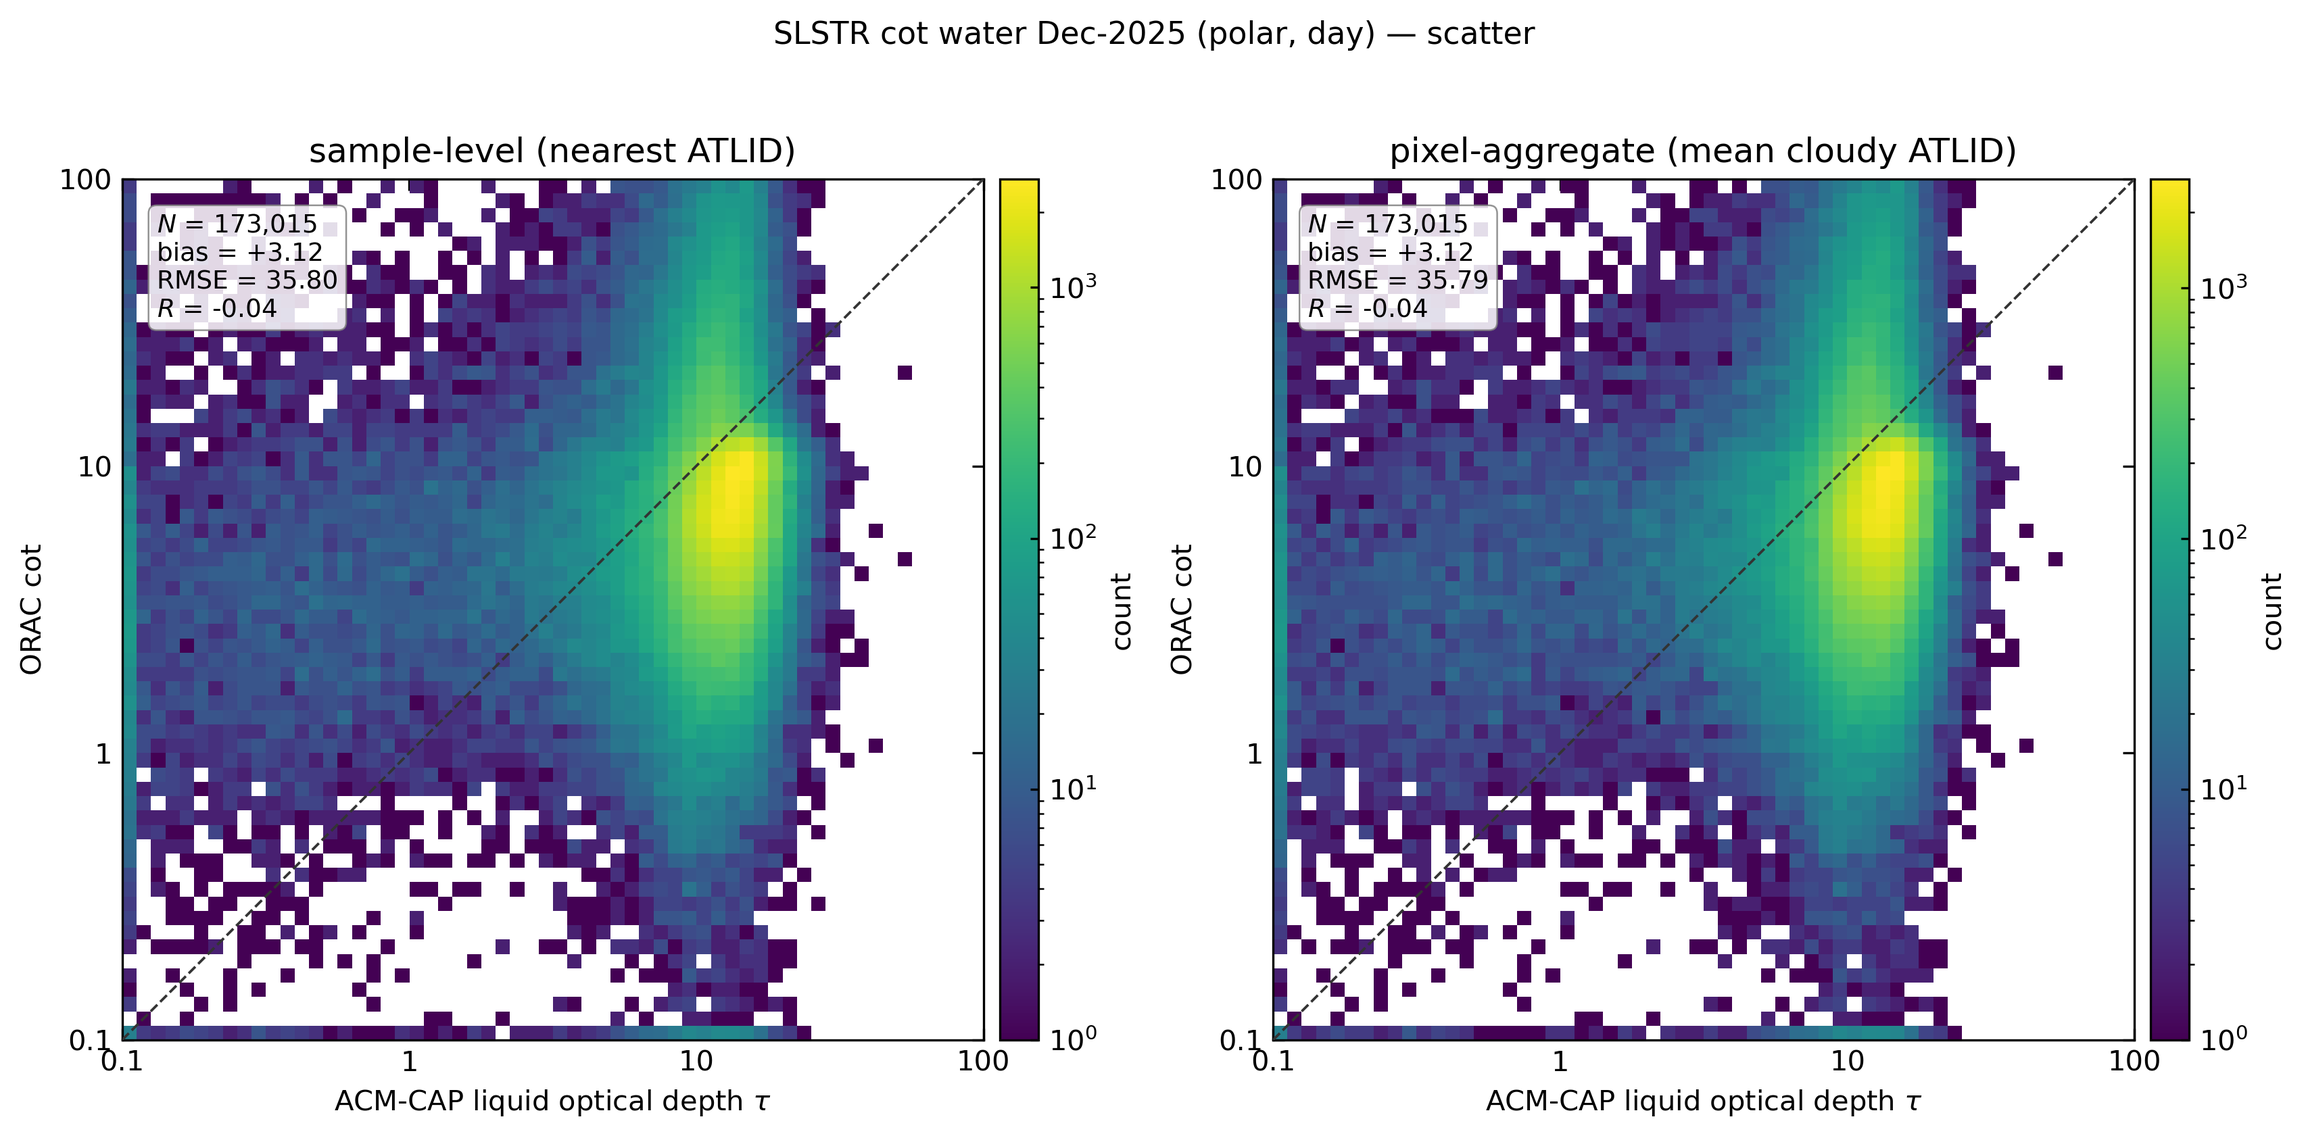
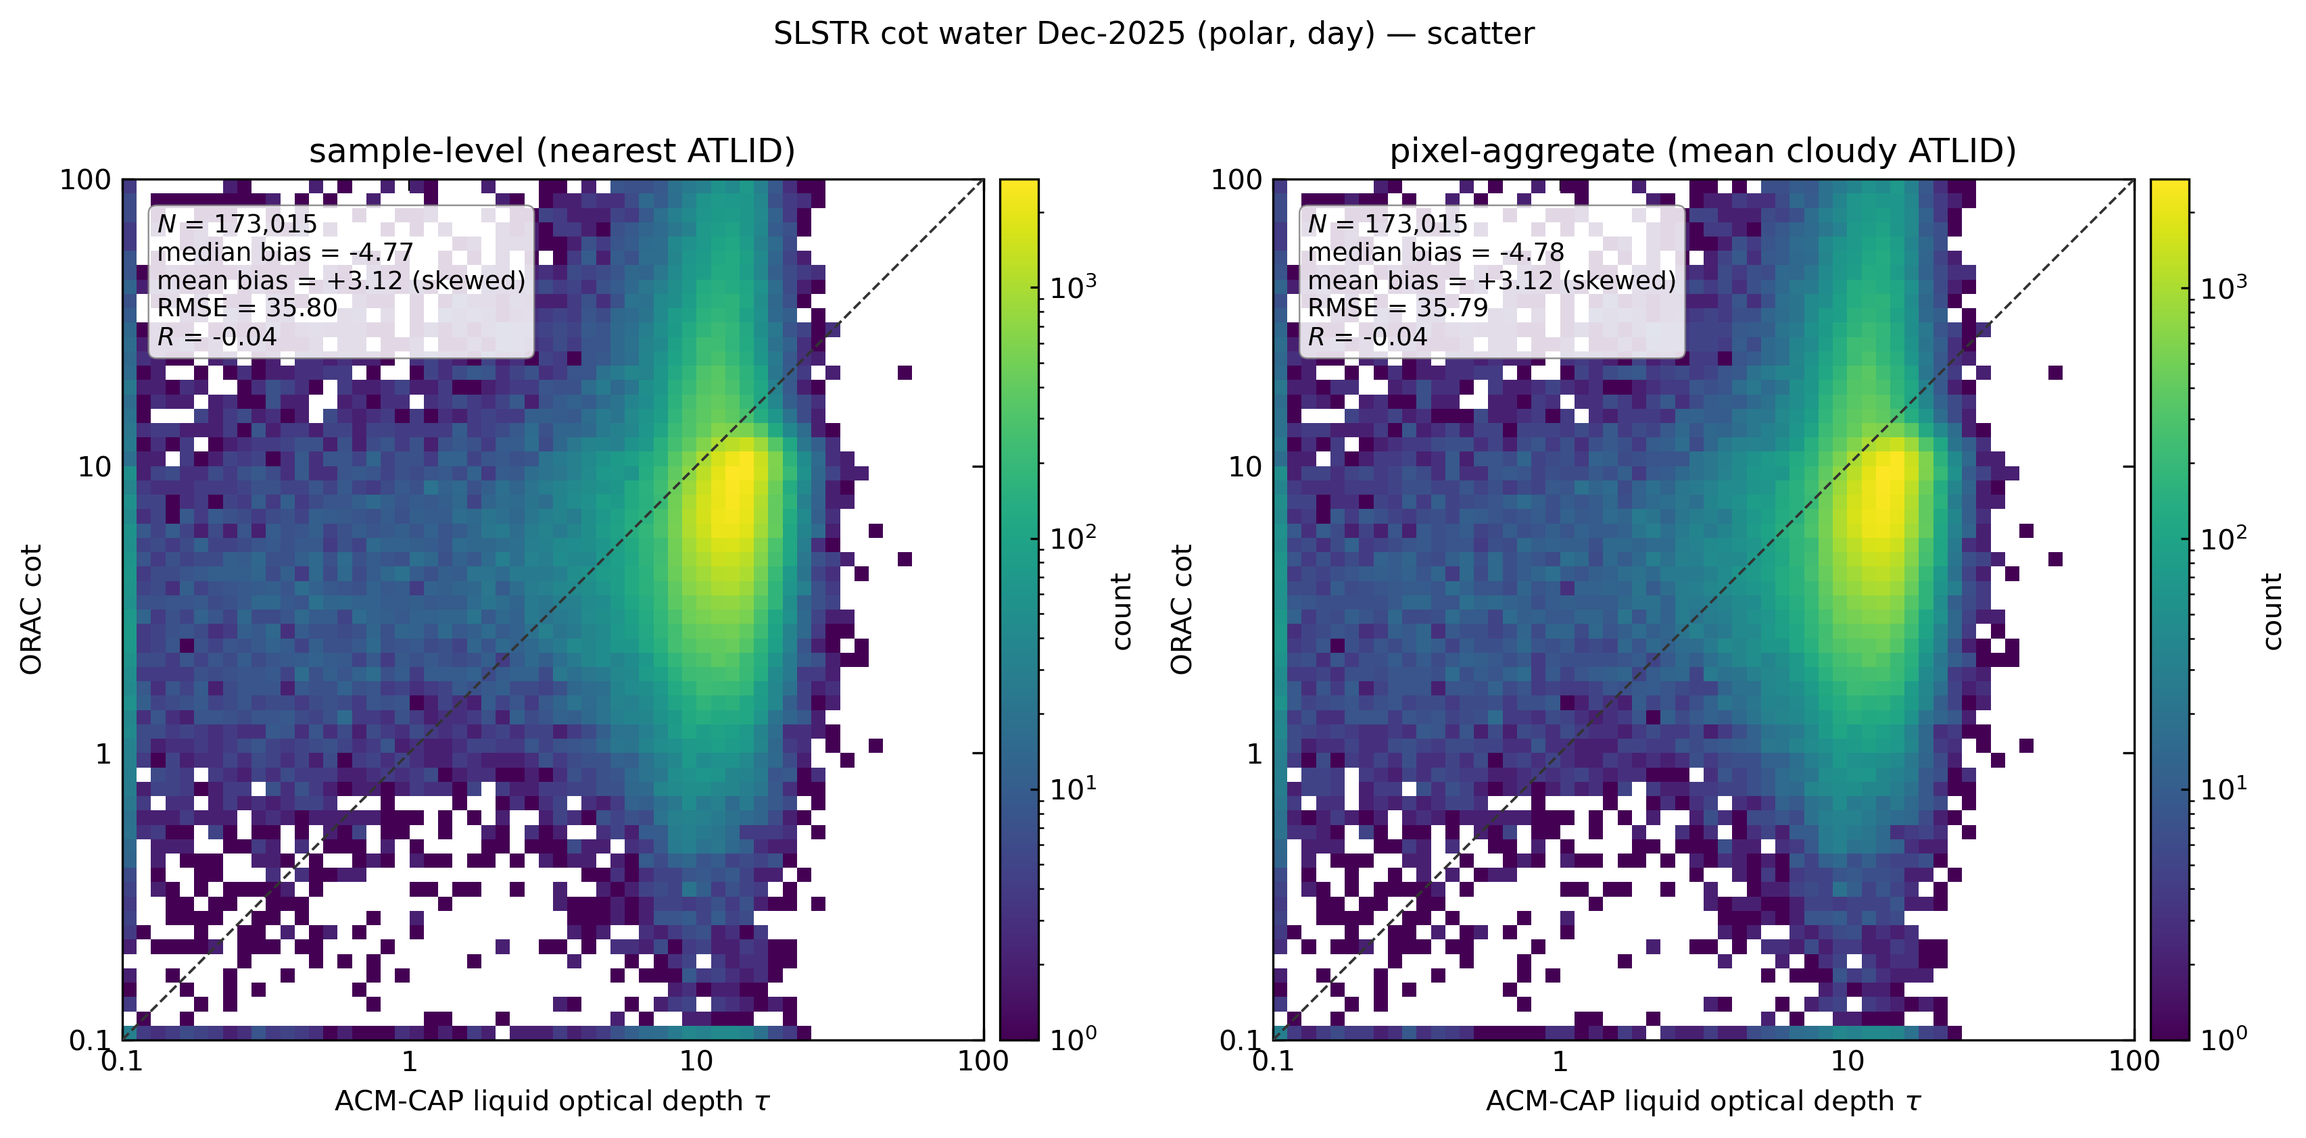
slstr(cot/cer): report MEDIAN bias as headline for heavy-tailed COT/CER
Mean bias is dominated by a small high-tau tail and misrepresents these results
(for water COT it even flips sign vs the median). Added median_bias to
continuous_stats; scatter figures now show median (headline) + mean (skewed).
Corrected headlines:
- Water COT: median -4.8 (typical UNDERestimate) vs mean +3.1 (skewed)
- Ice COT:   median +2.0 vs mean +7.2; land/ocean contrast was a mean artefact
- CER:       median +1.1 um (near-unbiased) vs mean +8.4; real issue is R~-0.1
Summary table + one-line message reframed: solar retrievals are noisy, not
grossly biased; the large positive means were skew artefacts.

Changed region(s): [[0.5594, 0.1544, 0.7458, 0.3397], [0.0622, 0.1544, 0.2486, 0.3397]]

diff --git a/validation/water_cloud_figures.py b/validation/water_cloud_figures.py
@@ -135,7 +135,8 @@ def scatter_panel(
             xv, yv = _xy_for_mode(d2, x, y, mode)
             im = _density_image(ax, xv, yv, lim=_lim_for_mode(mode))
             _attach_colorbar(fig, ax, im, label="count")
-        _stat_text(ax, n, bias, rmse, r, unit=("" if mode.startswith("cot") else r"$\mu$m"))
+        _stat_text(ax, n, bias, rmse, r, median_bias=(float((d2[y] - d2[x]).median()) if n >= 2 else None),
+                   unit=("" if mode.startswith("cot") else r"$\mu$m"))
         ax.set_title(label, pad=6)
     if suptitle:
         fig.suptitle(suptitle, fontsize=11, y=1.02)
@@ -163,7 +164,8 @@ def scatter_compare(
             xv, yv = _xy_for_mode(d2, x, y, mode)
             im = _density_image(ax, xv, yv, lim=_lim_for_mode(mode))
             _attach_colorbar(fig, ax, im, label="count")
-        _stat_text(ax, n, bias, rmse, r, unit=("" if mode.startswith("cot") else r"$\mu$m"))
+        _stat_text(ax, n, bias, rmse, r, median_bias=(float((d2[y] - d2[x]).median()) if n >= 2 else None),
+                   unit=("" if mode.startswith("cot") else r"$\mu$m"))
         ax.set_title(label, pad=6)
     if suptitle:
         fig.suptitle(suptitle, fontsize=11, y=1.02)
@@ -199,7 +201,8 @@ def scatter_compare_by_surface(
                 xv, yv = _xy_for_mode(d2, x, y, mode)
                 im = _density_image(ax, xv, yv, lim=_lim_for_mode(mode))
                 _attach_colorbar(fig, ax, im, label="count")
-            _stat_text(ax, n, bias, rmse, r, unit=("" if mode.startswith("cot") else r"$\mu$m"))
+            _stat_text(ax, n, bias, rmse, r, median_bias=(float((d2[y] - d2[x]).median()) if n >= 2 else None),
+                   unit=("" if mode.startswith("cot") else r"$\mu$m"))
             ax.set_title(f"{r_name} — {s_name}", pad=6)
     if suptitle:
         fig.suptitle(suptitle, fontsize=11, y=1.0)

diff --git a/validation/figures.py b/validation/figures.py
@@ -107,15 +107,23 @@ def _attach_colorbar(fig, ax, im, label: str = "count"):
 
 
 def _stat_text(ax, n: int, bias: float, rmse: float, r_log: float, *,
+               median_bias: float | None = None,
                loc: tuple[float, float] = (0.04, 0.96)) -> None:
     """Stats annotation in the upper-left of ``ax``.
 
     Reports ``R_log`` rather than raw ``R`` — for cot the log-space
     correlation is the meaningful metric (Karlsson 2013 / PVIR convention).
+    For heavy-tailed cot, ``median_bias`` (if given) is the headline and the
+    mean is flagged as skew-sensitive.
     """
+    if median_bias is not None:
+        bias_lines = (f"median bias = {median_bias:+.2f}\n"
+                      f"mean bias = {bias:+.2f} (skewed)\n")
+    else:
+        bias_lines = f"bias = {bias:+.2f}\n"
     txt = (
         f"$N$ = {n:,}\n"
-        f"bias = {bias:+.2f}\n"
+        f"{bias_lines}"
         f"RMSE = {rmse:.2f}\n"
         f"$R_{{\\mathrm{{log}}}}$ = {r_log:.2f}"
     )
@@ -159,7 +167,8 @@ def scatter_panel(
         if n >= 2:
             im = _density_image(ax, _logclip(d2[x]), _logclip(d2[y]))
             _attach_colorbar(fig, ax, im, label="count")
-        _stat_text(ax, n, bias, rmse, r_log)
+        _stat_text(ax, n, bias, rmse, r_log,
+                   median_bias=(float((d2[y] - d2[x]).median()) if n >= 2 else None))
         ax.set_title(label, pad=6)
     if suptitle:
         fig.suptitle(suptitle, fontsize=11, y=1.02)

diff --git a/validation/statistics.py b/validation/statistics.py
@@ -83,12 +83,16 @@ def continuous_stats(d: pd.DataFrame, x: str, y: str,
     d = d[[x, y]].dropna()
     n = len(d)
     if n < 2:
-        return dict(n=n, bias=np.nan, rmse=np.nan, mae=np.nan,
+        return dict(n=n, bias=np.nan, median_bias=np.nan, rmse=np.nan, mae=np.nan,
                     r=np.nan, r_log=np.nan, slope=np.nan, intercept=np.nan)
     xv = d[x].values
     yv = d[y].values
     diff = yv - xv
     bias = float(diff.mean())
+    # median bias is the robust headline for heavy-tailed quantities (cot/cer):
+    # the mean is dominated by a small high-value tail, so it can even flip sign
+    # relative to the typical (median) difference.
+    median_bias = float(np.median(diff))
     rmse = float(np.sqrt((diff ** 2).mean()))
     mae = float(np.abs(diff).mean())
     if d[x].std() > 0 and d[y].std() > 0:
@@ -100,8 +104,8 @@ def continuous_stats(d: pd.DataFrame, x: str, y: str,
     else:
         r = r_log = np.nan
         slope = intercept = np.nan
-    return dict(n=n, bias=bias, rmse=rmse, mae=mae, r=r, r_log=r_log,
-                slope=float(slope), intercept=float(intercept))
+    return dict(n=n, bias=bias, median_bias=median_bias, rmse=rmse, mae=mae,
+                r=r, r_log=r_log, slope=float(slope), intercept=float(intercept))
 
 
 # ---------------------------------------------------------------------------

diff --git a/validation/cth_figures.py b/validation/cth_figures.py
@@ -98,14 +98,21 @@ def _attach_colorbar(fig, ax, im, label: str = "count"):
 
 
 def _stat_text(ax, n: int, bias: float, rmse: float, r: float, *,
-               unit: str = "km",
+               unit: str = "km", median_bias: float | None = None,
                loc: tuple[float, float] = (0.04, 0.96)) -> None:
     """Stats annotation in the upper-left of ``ax``. ``unit`` is appended to
-    bias/RMSE when truthy; pass ``unit=""`` for dimensionless variables."""
+    bias/RMSE when truthy; pass ``unit=""`` for dimensionless variables. If
+    ``median_bias`` is given (heavy-tailed cot/cer), it is shown as the headline
+    with the mean flagged as skew-sensitive."""
     suffix = f" {unit}" if unit else ""
+    if median_bias is not None:
+        bias_lines = (f"median bias = {median_bias:+.2f}{suffix}\n"
+                      f"mean bias = {bias:+.2f}{suffix} (skewed)\n")
+    else:
+        bias_lines = f"bias = {bias:+.2f}{suffix}\n"
     txt = (
         f"$N$ = {n:,}\n"
-        f"bias = {bias:+.2f}{suffix}\n"
+        f"{bias_lines}"
         f"RMSE = {rmse:.2f}{suffix}\n"
         f"$R$ = {r:.2f}"
     )

diff --git a/docs/reports/slstr_cot_water_2025-12.md b/docs/reports/slstr_cot_water_2025-12.md
@@ -31,37 +31,40 @@ Coverage: **N = 173 015 SLSTR pixels** (pixel view; sample-level identical to 3 
 
 ## 3. Headline results (qc_strict, pixel, water-pure)
 
-| stratum                    |    N    | bias (τ) | RMSE (τ) | r_log |
-| -------------------------- | ------- | -------- | -------- | ----- |
-| **all (= S-polar)**        | 173 015 | **+3.12**| 35.8     | 0.11  |
-| ocean (sea-ice / S. Ocean) |  70 648 | +5.46    | 37.4     | 0.17  |
-| land (ice shelf / coast)   | 102 367 | +1.50    | 34.6     | 0.07  |
-| **phase_agree_liquid**     | 134 663 | **−0.65**| **20.3** | 0.15  |
-| tdiff < 3 min              |   9 368 | +2.21    | 35.5     | 0.20  |
+**Report the median bias, not the mean.** COT is heavy-tailed (log-distributed
+over three decades); the mean in linear τ is dominated by a small high-τ tail and
+here it even **flips sign** relative to the typical pixel. The median is the
+robust headline; the mean is shown alongside as a skew-sensitive diagnostic.
+
+| stratum                    |    N    | **median bias** | mean bias (skewed) | RMSE (τ) | r_log |
+| -------------------------- | ------- | --------------- | ------------------ | -------- | ----- |
+| **all (= S-polar)**        | 173 015 | **−4.78**       | +3.12              | 35.8     | 0.11  |
+| ocean (sea-ice / S. Ocean) |  70 648 | −4.22           | +5.46              | 37.4     | 0.17  |
+| land (ice shelf / coast)   | 102 367 | −5.16           | +1.50              | 34.6     | 0.07  |
+| phase_agree_liquid         | 134 663 | −4.86           | −0.65              | 20.3     | 0.15  |
 
 The headline:
 
-> **In Antarctic-summer daytime, ORAC SLSTR overestimates ACM-CAP liquid τ by only
-> ≈ +3 overall — and by essentially zero (−0.65, RMSE 20) once both instruments
-> agree the column is liquid (`phase_agree_liquid`). Correlation is weak
-> (r_log ≈ 0.11–0.15), the expected noise of polar-daytime COT.**
+> **On the median (the typical pixel), ORAC SLSTR *underestimates* ACM-CAP liquid
+> τ by ≈ 5 (median bias −4.8; ORAC median τ 6.9 vs ACM-CAP 12.1) throughout the
+> polar-daytime sample.** The frequently-quoted "+3 mean bias" is a **skew
+> artefact** — a minority of very-high-τ pixels drags the linear mean positive,
+> even reversing its sign. Correlation is weak (r_log ≈ 0.11), the expected noise
+> of polar-daytime COT.
 
-Key reads:
+Two distinct effects, which the mean conflates and the median/§3c separate:
 
-- **`phase_agree_liquid` is the trustworthy comparison** and it is nearly
-  unbiased (−0.65) with RMSE roughly half the all-stratum value. The +3.1
-  all-stratum bias is therefore largely a **phase-mismatch artefact** — pixels
-  where ORAC retrieves ice/mixed while ACM-CAP reports liquid (and vice versa)
-  contribute τ that is not a like-for-like comparison.
-- **Better than both the SEVIRI polar water-COT (+18)** and the SLSTR ice COT
-  (+7). Two plausible contributors: SLSTR's ~1 km nadir footprint suffers less
-  sub-pixel partial-cloud inflation than SEVIRI's 3–7 km pixels, and the liquid
-  scenes here are lower/optically simpler than the ice regime.
-- **Ocean bias (+5.5) > land (+1.5)** — the reverse of the ice-COT case;
-  low-sun sea-ice / Southern-Ocean liquid is where the residual overestimate sits.
-- **Low r_log** (0.11–0.20) — polar-daytime COT is intrinsically noisy (phase
-  ambiguity, high SZA, partial cloud), consistent with the SEVIRI water-COT
-  experience that COT validates far more loosely than CTH.
+1. **A typical underestimate (median −5).** ORAC's passive liquid τ sits below the
+   ACM-CAP synergy τ for the bulk of pixels — visible as the density ridge
+   *below* the 1:1 line in the scatter. This holds even in `phase_agree_liquid`
+   (median −4.9), so it is a genuine liquid-τ difference, not a phase effect.
+2. **A high-τ tail that inflates the mean**, concentrated in the pixels ORAC
+   misclassifies as ice (§3c). This is what turns a −5 median into a +3 mean, and
+   it is worst at the lower polar latitudes (70–75°: median +1 but mean +29).
+
+> **Net:** ORAC liquid τ typically runs a few τ *low* against the synergy
+> reference; the "+3 overestimate" seen in the mean is not representative and is
+> driven by a skewed tail plus phase misclassification.
 
 ## 3b. Polar sub-band gradient
 

diff --git a/docs/reports/slstr_cot_ice_2025-12.md b/docs/reports/slstr_cot_ice_2025-12.md
@@ -46,23 +46,29 @@ Coverage after day-filter and ice-only: **N = 52 822 SLSTR pixels** (pixel view)
 
 ## 3. Headline results (ice-only, daytime, not-attenuated)
 
-| stratum (pixel view)   |   N    | bias (τ) | RMSE (τ) | r_log |
-| ---------------------- | ------ | -------- | -------- | ----- |
-| **all (= S-polar)**    | 52 822 | **+7.19**| **16.4** | 0.17  |
-| ocean (sea-ice)        | 20 892 | +5.29    | 12.4     | 0.37  |
-| land (ice-sheet/snow)  | 31 930 | +8.43    | 18.5     | 0.05  |
-| tdiff < 3 min          |  3 464 | +6.18    | 14.6     | 0.25  |
-| τ passive (τ>0.3)      | 40 731 | +6.19    | 14.8     | 0.23  |
-| attenuated (diagnostic)| 20 835 | +6.95    | 15.9     | 0.12  |
+COT is heavy-tailed, so the **median bias** is the headline; the mean is shown as
+a skew-sensitive diagnostic.
 
-Bias/RMSE in linear τ; r_log in log10 space.
+| stratum (pixel view)   |   N    | **median bias** | mean bias (skewed) | RMSE (τ) | r_log |
+| ---------------------- | ------ | --------------- | ------------------ | -------- | ----- |
+| **all (= S-polar)**    | 52 822 | **+2.04**       | +7.19              | 16.4     | 0.17  |
+| ocean (sea-ice)        | 20 892 | +2.44           | +5.29              | 12.4     | 0.37  |
+| land (ice-sheet/snow)  | 31 930 | +1.71           | +8.43              | 18.5     | 0.05  |
+| τ passive (τ>0.3)      | 40 731 | +2.00           | +6.19              | 14.8     | 0.23  |
 
 The headline:
 
 > **In Antarctic-summer daytime, ORAC SLSTR overestimates ATLID ice-cloud column
-> optical thickness by ≈ +7 (RMSE ≈ 16), with weak correlation (r_log ≈ 0.17).
-> The overestimate is worse over the bright ice sheet (land +8.4) than over
-> sea-ice (ocean +5.3).**
+> τ by only ≈ +2 on the median** (not the +7 the mean suggests — COT is
+> heavy-tailed and the linear mean is inflated by a small high-τ tail).
+> Correlation is weak (r_log ≈ 0.17): the retrieval is **noisy, not grossly
+> biased**.
+
+Note the **land/ocean contrast is a mean artefact**: the *median* biases over
+sea-ice (+2.4) and the ice sheet (+1.7) are similar — the large land *mean* (+8.4)
+is driven by the high-τ tail, not a systematically thicker retrieval over the ice
+sheet. §4/§5 discussion of "worse over the ice sheet" refers to the (skew-prone)
+mean and should be read with that caveat.
 
 ## 4. Interpretation — why so much worse than SEVIRI ice COT (+1.3)?
 

diff --git a/docs/reports/slstr_validation_summary_2025-12.md b/docs/reports/slstr_validation_summary_2025-12.md
@@ -17,18 +17,25 @@ ATLID A-EBD, ATLID+CPR+MSI ACM-CAP) for **December 2025** — the one full month
 this ORAC stream. Reusing the collocation framework proven on SEVIRI, only a new
 SLSTR granule reader and a polar-crossing collocator were added.
 
+COT and CER are heavy-tailed, so the **median bias** is the robust headline and
+the mean is shown as a skew-sensitive diagnostic (for water COT the mean even
+*flips sign* relative to the median).
+
 | Variable | Reference | Regime | Headline (qc_strict, pixel) | Verdict |
 | -------- | --------- | ------ | --------------------------- | ------- |
 | **CTH**       | A-CTH (ATLID)   | polar, day+night | bias **−0.57 km**, RMSE 2.08 km, R **0.58** | **good** |
-| **Water COT** | ACM-CAP liquid τ | polar, day (Antarctic) | bias **+3.1** (−0.65 phase-agreed), r_log 0.11 | modest |
-| **Ice COT**   | A-EBD column τ  | polar, day (Antarctic) | bias **+7.2**, r_log 0.17 | poor |
-| **CER**       | ACM-CAP liquid rₑ | polar, day (Antarctic) | bias **+8 µm**, R ≈ **−0.1** | weakest |
+| **Water COT** | ACM-CAP liquid τ | polar, day (Antarctic) | **median −4.8** (mean +3.1 *skewed*), r_log 0.11 | τ low, noisy |
+| **Ice COT**   | A-EBD column τ  | polar, day (Antarctic) | **median +2.0** (mean +7.2 *skewed*), r_log 0.17 | modest, noisy |
+| **CER**       | ACM-CAP liquid rₑ | polar, day (Antarctic) | **median +1.1 µm** (mean +8.4 *skewed*), R ≈ **−0.1** | low bias, no skill |
 
 **One-line message:** in the polar regime this sensor pairing can access, the
-**thermal** cloud-top retrieval is nearly unbiased, while the **solar** optical
-retrievals (COT, and especially the SWIR-based CER) degrade over bright ice at
-high sun-zenith — a coherent snow/ice-surface signal for the `v5.1_new_snowice`
-build.
+**thermal** cloud-top retrieval is nearly unbiased *and correlated* (−0.57 km,
+R 0.58). The **solar** retrievals (COT, CER) have only **small-to-moderate median
+biases** (liquid τ ≈ −5, ice τ ≈ +2, CER ≈ +1 µm) but **weak correlation** — they
+are **noisy, not grossly biased**. The large positive *mean* biases reported
+elsewhere are **skew artefacts** of the heavy COT tail plus phase misclassification
+(§3.2); the real limitation over polar bright surfaces at high sun-zenith is
+**scatter and phase mis-ID**, not a large systematic τ offset.
 
 ---
 

diff --git a/docs/reports/slstr_cer_water_2025-12.md b/docs/reports/slstr_cer_water_2025-12.md
@@ -18,20 +18,23 @@ collocation.
 
 ## 2. Headline results (qc_strict, pixel)
 
-| stratum        |    N    | bias (µm) | RMSE (µm) |   R    |
-| -------------- | ------- | --------- | --------- | ------ |
-| **all**        | 173 015 | **+8.37** | 19.9      | −0.11  |
-| ocean          |  70 648 | +6.33     | 17.7      | −0.02  |
-| land           | 102 367 | +9.78     | 21.4      | −0.15  |
-| lat_70–75°     |  10 735 | +9.04     | 19.4      | −0.02  |
-| lat_75–80°     |  79 726 | +8.27     | 19.6      | −0.10  |
-| lat_80–85°     |  82 554 | +8.38     | 20.3      | −0.13  |
+CER is right-skewed, so the **median bias** is the headline and the mean is a
+skew-sensitive diagnostic.
+
+| stratum        |    N    | **median bias** | mean bias (skewed) | RMSE (µm) |   R    |
+| -------------- | ------- | --------------- | ------------------ | --------- | ------ |
+| **all**        | 173 015 | **+1.06 µm**    | +8.37              | 19.9      | −0.11  |
+| ocean          |  70 648 | +0.78           | +6.33              | 17.7      | −0.02  |
+| land           | 102 367 | +1.38           | +9.78              | 21.4      | −0.15  |
 
 The headline:
 
-> **ORAC SLSTR overestimates liquid effective radius by ≈ +8 µm with essentially
-> no skill (R ≈ −0.1) in Antarctic-summer daytime.** The bias is flat across the
-> polar sub-bands and slightly worse over the ice sheet (+9.8) than sea-ice (+6.3).
+> **On the median, ORAC SLSTR liquid effective radius is nearly unbiased (+1 µm)
+> — but has essentially no skill (R ≈ −0.1).** The +8 µm often quoted is a *mean*
+> skewed by a high-radius tail; the typical bias is small. The real problem is not
+> bias but the **absence of correlation**: in Antarctic-summer daytime (bright
+> ice, high SZA) ORAC's SWIR radius retrieval does not track the true particle
+> size, it just scatters around roughly the right central value.
 
 ## 3. Interpretation
 
